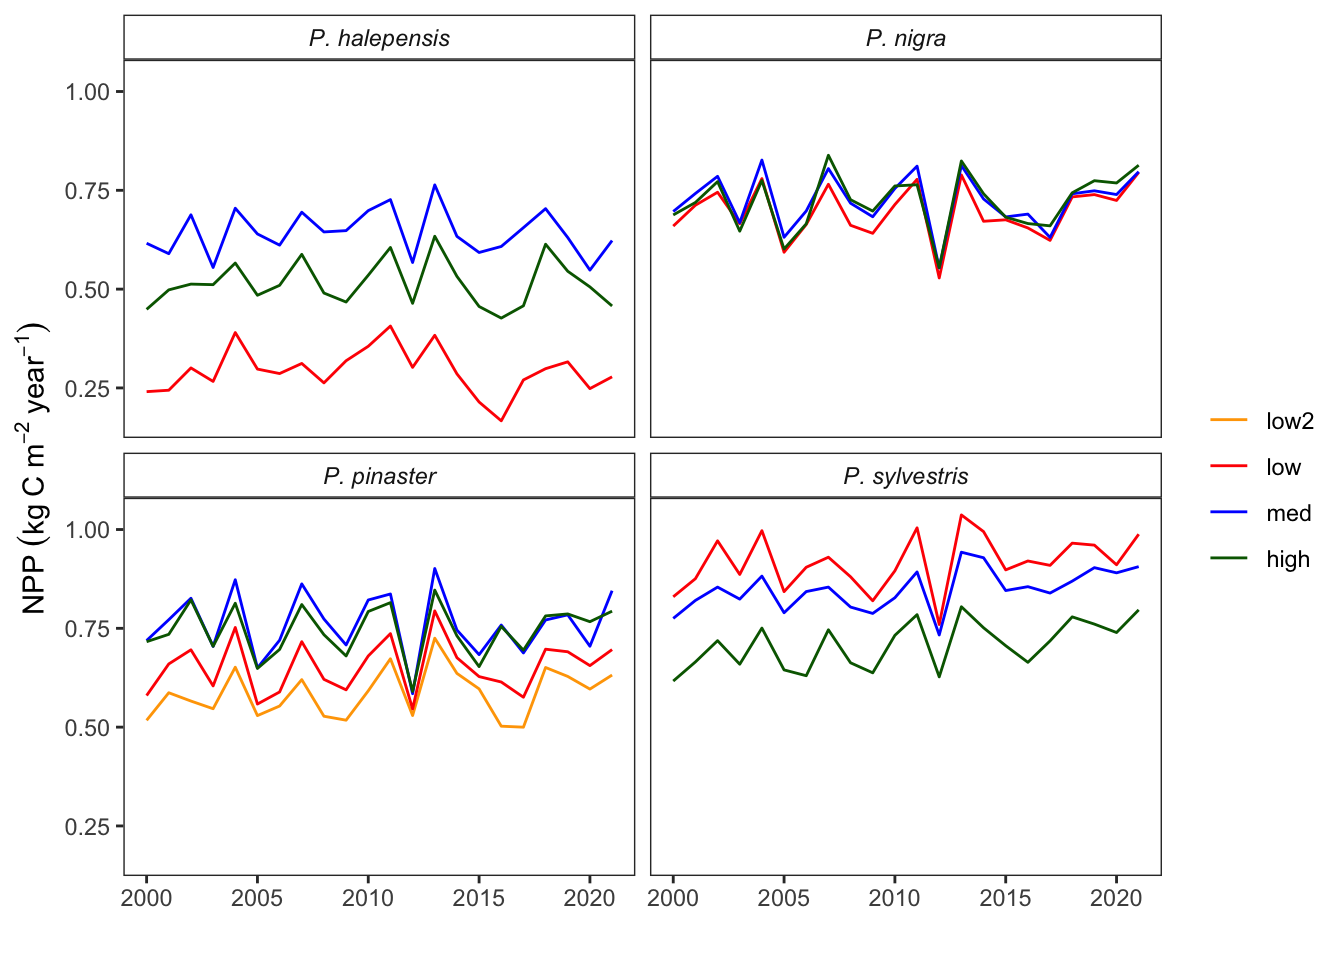
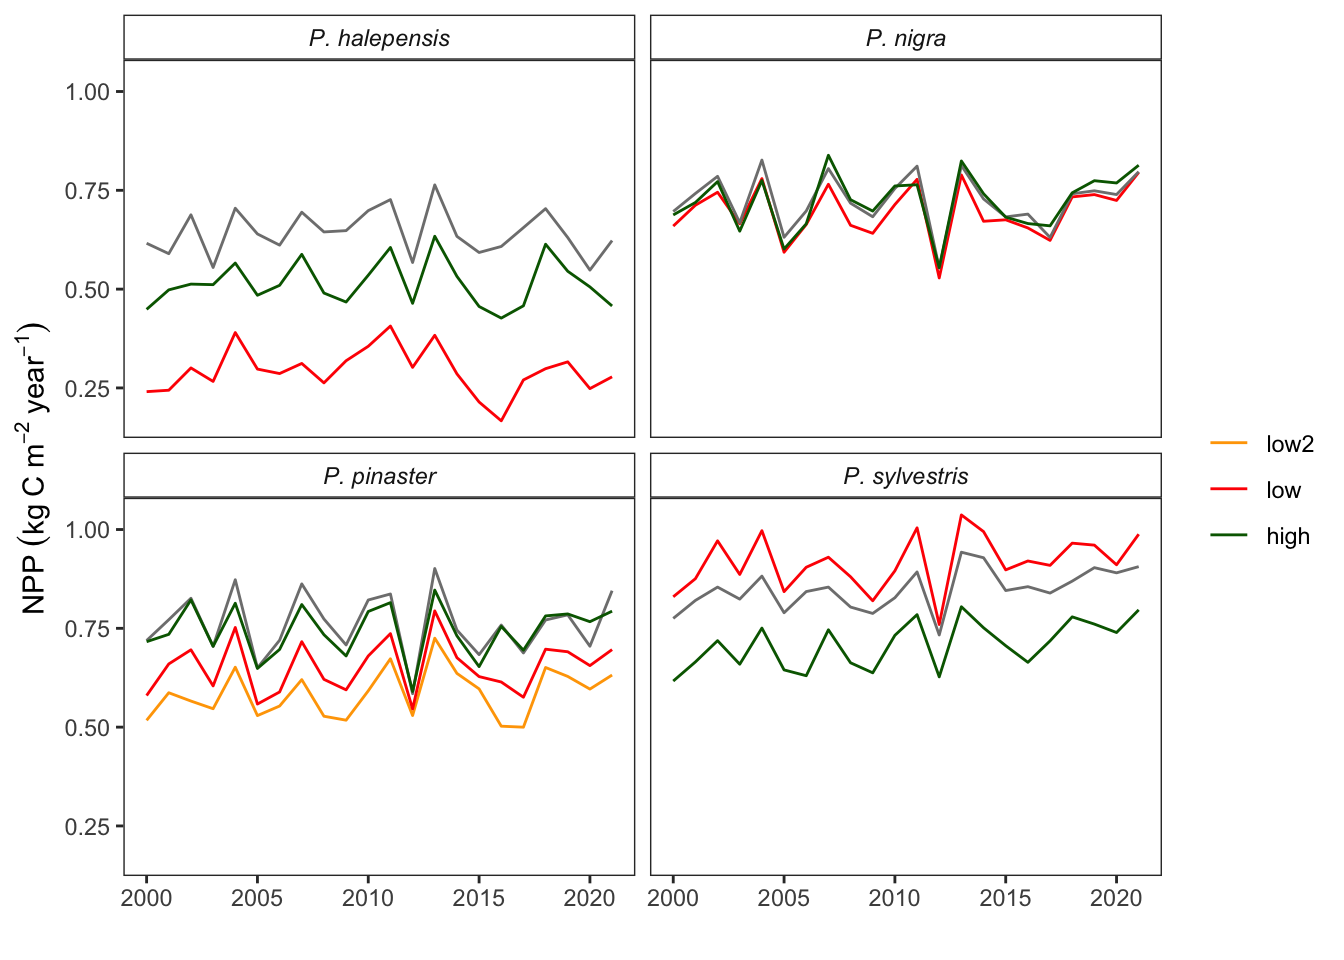
Build site.

diff --git a/docs/temporal_npp_mod17.html b/docs/temporal_npp_mod17.html
@@ -530,20 +530,20 @@ makes it easier to run your code on other machines.</p>
 <div class="panel panel-default">
 <div class="panel-heading">
 <p class="panel-title">
-<a data-toggle="collapse" data-parent="#workflowr-checks" href="#strongRepositoryversionstrongahrefhttpsgithubcomajpeluadaptameddendroanalysistree50b3257a722ed05ca163984ccaee7eb111c42cd8targetblank50b3257a">
+<a data-toggle="collapse" data-parent="#workflowr-checks" href="#strongRepositoryversionstrongahrefhttpsgithubcomajpeluadaptameddendroanalysistreef72505adf30ac758f94d9978eac8ae21b86337a7targetblankf72505aa">
 <span class="glyphicon glyphicon-ok text-success" aria-hidden="true"></span>
-<strong>Repository version:</strong> <a href="https://github.com/ajpelu/adaptamed_dendroanalysis/tree/50b3257a722ed05ca163984ccaee7eb111c42cd8" target="_blank">50b3257</a>
+<strong>Repository version:</strong> <a href="https://github.com/ajpelu/adaptamed_dendroanalysis/tree/f72505adf30ac758f94d9978eac8ae21b86337a7" target="_blank">f72505a</a>
 </a>
 </p>
 </div>
[2 lines of base64/hex data omitted]
 <div class="panel-body">
 <p>
 Great! You are using Git for version control. Tracking code development and
 connecting the code version to the results is critical for reproducibility.
 </p>
 <p>
-The results in this page were generated with repository version <a href="https://github.com/ajpelu/adaptamed_dendroanalysis/tree/50b3257a722ed05ca163984ccaee7eb111c42cd8" target="_blank">50b3257</a>.
+The results in this page were generated with repository version <a href="https://github.com/ajpelu/adaptamed_dendroanalysis/tree/f72505adf30ac758f94d9978eac8ae21b86337a7" target="_blank">f72505a</a>.
 See the <em>Past versions</em> tab to see a history of the changes made to the
 R Markdown and HTML files.
 </p>
@@ -614,6 +614,40 @@ Message
 </tr>
 </thead>
 <tbody>
+<tr>
+<td>
+Rmd
+</td>
+<td>
+<a href="https://github.com/ajpelu/adaptamed_dendroanalysis/blob/f72505adf30ac758f94d9978eac8ae21b86337a7/analysis/temporal_npp_mod17.Rmd" target="_blank">f72505a</a>
+</td>
+<td>
+ajpelu
+</td>
+<td>
+2024-01-10
+</td>
+<td>
+wflow_publish("analysis/temporal_npp_mod17.Rmd")
+</td>
+</tr>
+<tr>
+<td>
+html
+</td>
+<td>
+<a href="https://rawcdn.githack.com/ajpelu/adaptamed_dendroanalysis/12b23ef74fb3627cda95f34af2f389783c1bf5de/docs/temporal_npp_mod17.html" target="_blank">12b23ef</a>
+</td>
+<td>
+ajpelu
+</td>
+<td>
+2024-01-10
+</td>
+<td>
+Build site.
+</td>
+</tr>
 <tr>
 <td>
 Rmd
@@ -692,7 +726,14 @@ add analysis
 <div id="aims" class="section level1" number="1">
 <h1><span class="header-section-number">1</span> Aims</h1>
 <ul>
-<li>Prepare temporal series of yearly NPP for each field-plot, and then compute temporal trends</li>
+<li><p>Prepare temporal series of yearly NPP for each field-plot, and then compute temporal trends</p></li>
+<li><p>Data source:</p>
+<ul>
+<li>MODIS <a href="https://developers.google.com/earth-engine/datasets/catalog/MODIS_061_MOD17A3HGF">MOD17A3HGF</a></li>
+<li>Spatial resolution: 500 m pixel</li>
+<li>The MOD17A3HGF V6.1 product provides information about annual Gross and Net Primary Productivity (GPP and NPP) at 500m pixel resolution. Annual NPP is derived from the sum of all 8-day Net Photosynthesis(PSN) products (MOD17A2H) from the given year. The PSN value is the difference of the Gross Primary Productivity (GPP) and the Maintenance Respiration (MR) (GPP-MR).</li>
+<li>Detailed info <a href="https://lpdaac.usgs.gov/documents/972/MOD17_User_Guide_V61.pdf">here</a></li>
+</ul></li>
 </ul>
 <pre class="r"><code>library(here)
 library(tidyverse)
@@ -700,7 +741,9 @@ library(tidytext)
 library(Kendall)
 library(trend)
 library(kableExtra)
-library(DT)</code></pre>
+library(DT)
+
+source(&quot;scripts/aux.R&quot;)</code></pre>
 </div>
 <div id="prepare-data" class="section level1" number="2">
 <h1><span class="header-section-number">2</span> Prepare data</h1>
@@ -1159,17 +1202,15 @@ high
 </tr>
 </tbody>
 </table>
-<pre class="r"><code>cols &lt;- c(&quot;low&quot; = &quot;red&quot;, &quot;low2&quot; =&quot;orange&quot;, &quot;med&quot; = &quot;blue&quot;, &quot;high&quot; = &quot;darkgreen&quot;)
-
-npp_summary %&gt;% 
+<pre class="r"><code>npp_summary %&gt;% 
   ggplot(aes(x=elev_cat, y=mean, fill=elev_cat, colour=elev_cat)) + 
   geom_point(size=3) + 
   geom_errorbar(aes(ymin=mean-se, ymax=mean+se), width=.3)+
   ylab(expression(NPP~(kg~C~m^{-2}~year^{-1}))) + 
   xlab(&quot;&quot;) + 
   facet_grid(cols=vars(Specie), scales = &quot;free_x&quot;, space = &quot;free_x&quot;) +
-  scale_fill_manual(values=cols, name=&quot;&quot;) +
-  scale_colour_manual(values=cols, name=&quot;&quot;) + 
+  scale_fill_manual(values=colours_elev, name=&quot;&quot;) +
+  scale_colour_manual(values=colours_elev, name=&quot;&quot;) + 
   theme_bw() + 
     theme(
     panel.grid = element_blank(),
@@ -1207,6 +1248,17 @@ Date
 <tbody>
 <tr>
 <td>
+<a href="https://github.com/ajpelu/adaptamed_dendroanalysis/blob/12b23ef74fb3627cda95f34af2f389783c1bf5de/docs/figure/temporal_npp_mod17.Rmd/plot-npp-avg-1.png" target="_blank">12b23ef</a>
+</td>
+<td>
+ajpelu
+</td>
+<td>
+2024-01-10
+</td>
+</tr>
+<tr>
+<td>
 <a href="https://github.com/ajpelu/adaptamed_dendroanalysis/blob/de037d3801aaeae43a553c6d4a45bc2e182b64e4/docs/figure/temporal_npp_mod17.Rmd/plot-npp-avg-1.png" target="_blank">de037d3</a>
 </td>
 <td>
@@ -1234,16 +1286,14 @@ ajpelu
             across(npp, ~trend::sens.slope(.)$p.value, .names =&quot;{.col}_pvalue_sen&quot;)) %&gt;% 
   arrange(Specie, elev_cat)</code></pre>
 <p>Significant but weaker positive trends (p-value &lt; 0.05) were observed for yearly NPP of the medium- and high-elevation sites of <em>P. sylvestris</em> (Table <a href="#tab:mk-mean">4.1</a>).</p>
-<pre class="r"><code>cols &lt;- c(&quot;low&quot; = &quot;red&quot;, &quot;low2&quot; =&quot;orange&quot;, &quot;med&quot; = &quot;blue&quot;, &quot;high&quot; = &quot;darkgreen&quot;)
-
-dnpp %&gt;% 
+<pre class="r"><code>dnpp %&gt;% 
   mutate(year = lubridate::year(date)) %&gt;% 
   ggplot(aes(x=year, y=npp, colour=elev_cat)) +
   geom_line() + 
   #geom_point() + 
   facet_wrap(~Specie, ncol=2) +
-  scale_fill_manual(values=cols, name=&quot;&quot;) +
-  scale_colour_manual(values=cols, name=&quot;&quot;) +
+  scale_fill_manual(values=colours_elev, name=&quot;&quot;) +
+  scale_colour_manual(values=colours_elev, name=&quot;&quot;) +
   ylab(expression(NPP~(kg~C~m^{-2}~year^{-1}))) + 
   xlab(&quot;&quot;) + 
   theme_bw() + 
@@ -1281,6 +1331,17 @@ Date
 </tr>
 </thead>
 <tbody>
+<tr>
+<td>
+<a href="https://github.com/ajpelu/adaptamed_dendroanalysis/blob/12b23ef74fb3627cda95f34af2f389783c1bf5de/docs/figure/temporal_npp_mod17.Rmd/plot-npp-1.png" target="_blank">12b23ef</a>
+</td>
+<td>
+ajpelu
+</td>
+<td>
+2024-01-10
+</td>
+</tr>
 <tr>
 <td>
 <a href="https://github.com/ajpelu/adaptamed_dendroanalysis/blob/de037d3801aaeae43a553c6d4a45bc2e182b64e4/docs/figure/temporal_npp_mod17.Rmd/plot-npp-1.png" target="_blank">de037d3</a>
